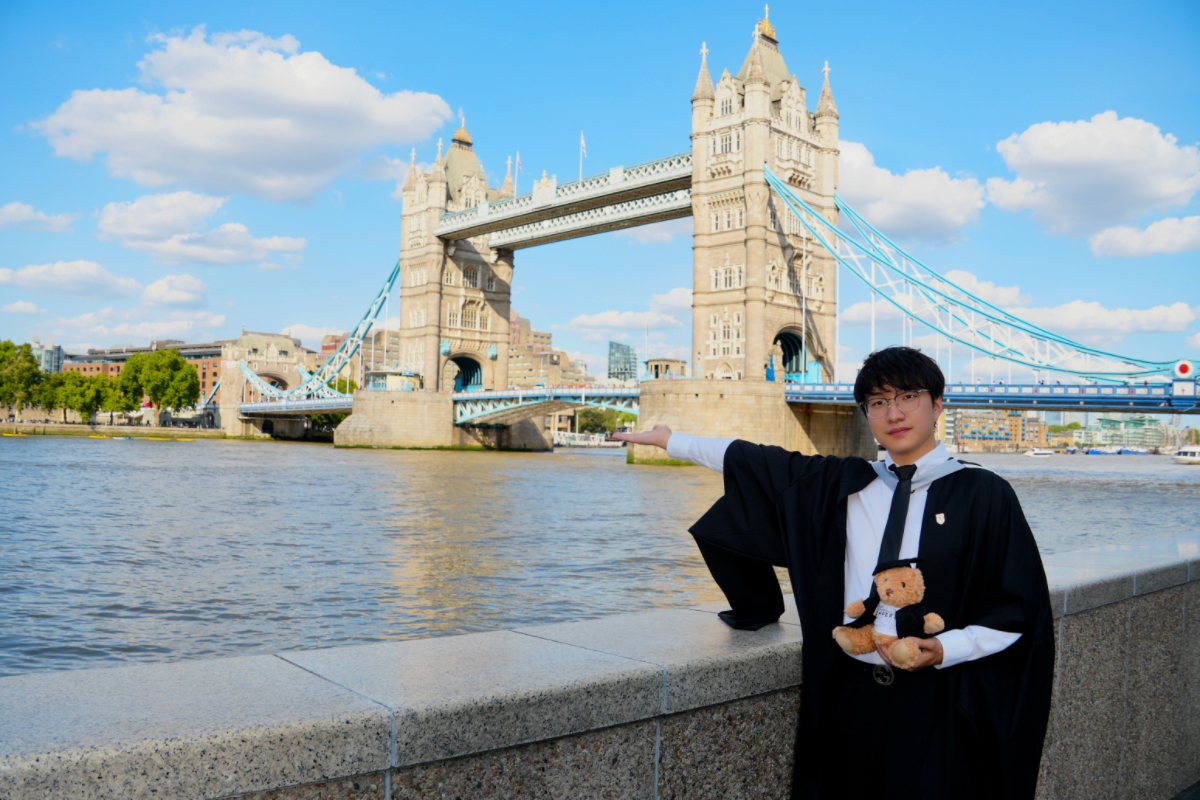
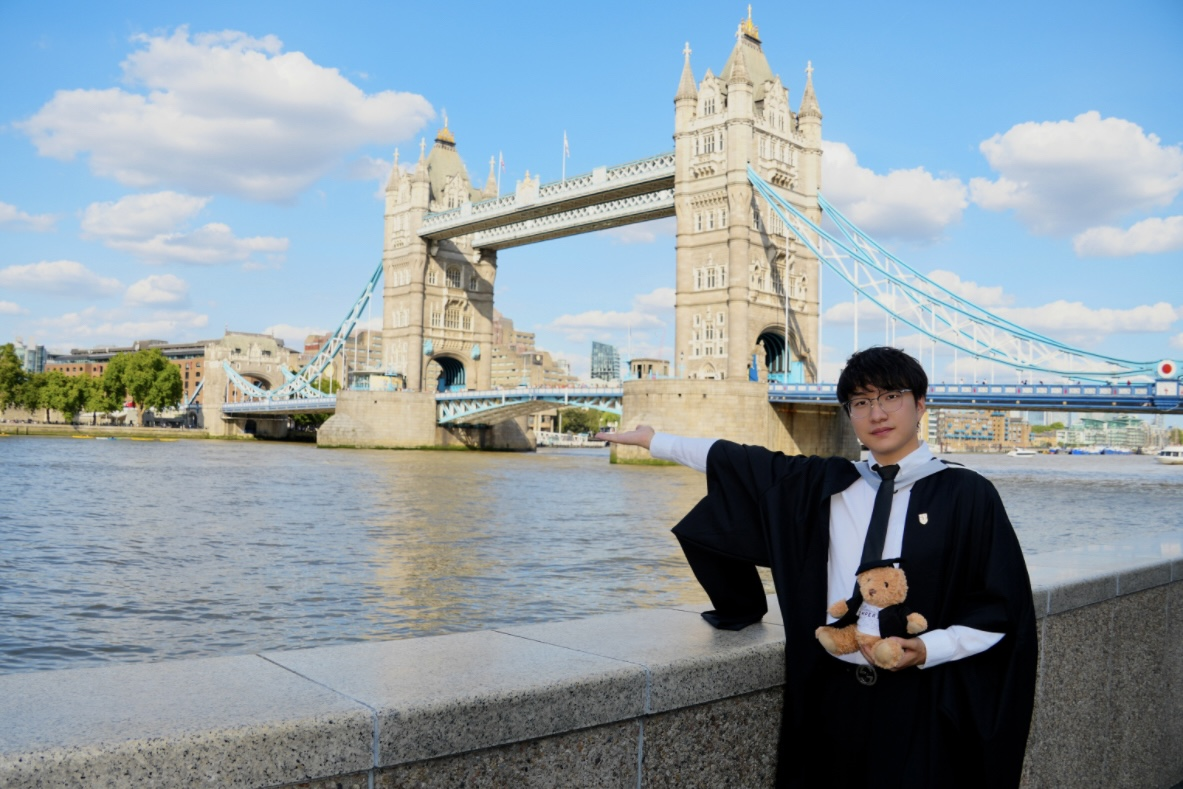
add teaching & add IR

diff --git a/_includes/widgets/teaching_item.html b/_includes/widgets/teaching_item.html
@@ -1,0 +1,94 @@
+{% assign item = include.item %}
+<div class="d-none d-md-block">
+    <div class="row no-gutters {% unless include.hide_bottom_border %}border-bottom{% endunless %} border-gray">
+        <div class="col p-3">
+            <h5 class="mt-0 mb-1 font-weight-normal">{{ item.title }}</h5>
+
+            {% if item.role %}
+            <p class="mt-0 mb-0 small">{{ item.role }}</p>
+            {% endif %}
+
+            {% if item.organization %}
+            <p class="mt-0 mb-0 small text-muted">{{ item.organization }}</p>
+            {% endif %}
+
+            {% if item.instructor %}
+            <p class="mt-0 mb-0 small text-muted">Instructor: {{ item.instructor }}</p>
+            {% endif %}
+
+            {% if item.note %}
+            <p class="mt-0 mb-0 small text-muted">{{ item.note }}</p>
+            {% endif %}
+
+            {% if item.description %}
+            <p class="mt-1 mb-0 small text-muted">{{ item.description }}</p>
+            {% endif %}
+
+            {% if item.links %}
+            <p class="small pb-0 mb-0 lh-125 text-muted abstract-links">
+                {% for link in item.links %}
+                {% if link[1].url %}
+                <a target="{{ link[1]['target'] }}" href="{{ link[1]['url'] }}">[{{ link[0] }}]</a>
+                {% else %}
+                <a target="_blank" href="{{ link[1] }}">[{{ link[0] }}]</a>
+                {% endif %}
+                {% endfor %}
+            </p>
+            {% endif %}
+        </div>
+
+        <div class="col-auto p-3 text-right">
+            {% if item.display_date %}
+            <p class="mt-0 mb-0 text-muted">{{ item.display_date }}</p>
+            {% elsif item.date %}
+            <p class="mt-0 mb-0 text-muted">{{ item.date | date: "%Y" }}</p>
+            {% endif %}
+        </div>
+    </div>
+</div>
+
+<div class="row no-gutters d-md-none {% unless include.hide_bottom_border %}border-bottom{% endunless %} border-gray {% if include.first %}rounded-xl-top{% endif %} {% if include.last %}rounded-xl-bottom{% endif %}">
+    <div class="w-100 {% if include.first %}rounded-xl-top{% endif %} {% if include.last %}rounded-xl-bottom{% endif %}" style="background-color: rgba(255,255,255,0.9);">
+        <div class="py-3 px-4">
+            <h5 class="mt-0 mb-1 font-weight-normal">{{ item.title }}</h5>
+
+            {% if item.role %}
+            <p class="mt-0 mb-0 small">{{ item.role }}</p>
+            {% endif %}
+
+            {% if item.organization %}
+            <p class="mt-0 mb-0 small text-muted">{{ item.organization }}</p>
+            {% endif %}
+
+            {% if item.instructor %}
+            <p class="mt-0 mb-0 small text-muted">Instructor: {{ item.instructor }}</p>
+            {% endif %}
+
+            {% if item.note %}
+            <p class="mt-0 mb-0 small text-muted">{{ item.note }}</p>
+            {% endif %}
+
+            {% if item.description %}
+            <p class="mt-1 mb-0 small text-muted">{{ item.description }}</p>
+            {% endif %}
+
+            {% if item.links %}
+            <p class="small pb-0 mb-0 lh-125 text-muted abstract-links">
+                {% for link in item.links %}
+                {% if link[1].url %}
+                <a target="{{ link[1]['target'] }}" href="{{ link[1]['url'] }}">[{{ link[0] }}]</a>
+                {% else %}
+                <a target="_blank" href="{{ link[1] }}">[{{ link[0] }}]</a>
+                {% endif %}
+                {% endfor %}
+            </p>
+            {% endif %}
+
+            {% if item.display_date %}
+            <p class="mt-1 mb-0 small text-muted">{{ item.display_date }}</p>
+            {% elsif item.date %}
+            <p class="mt-1 mb-0 small text-muted">{{ item.date | date: "%Y" }}</p>
+            {% endif %}
+        </div>
+    </div>
+</div>

diff --git a/teaching.html b/teaching.html
@@ -1,0 +1,55 @@
+---
+layout: default
+title : Teaching
+navbar_title: Teaching
+body_attr: >-
+  data-spy="scroll" data-target="#navbar-category" data-offset="100"
+---
+
+{% assign sorted_teaching = site.teaching | sort: "date" | reverse %}
+{% assign category_order = "Teaching Assistant|Course Instructor|Guest Lecturer|Mentoring" | split: "|" %}
+
+{% if sorted_teaching.size > 0 %}
+<div class="row">
+    <div class="col-12 col-lg-10">
+        {% for category_name in category_order %}
+        {% assign items_in_category = sorted_teaching | where: "category", category_name %}
+        {% assign section_id = category_name | slugify %}
+        {% if items_in_category.size > 0 %}
+        <h2 class="pt-4" id="{{ section_id }}">{{ category_name }}</h2>
+        <div class="my-0 p-0 bg-white shadow-sm rounded-xl">
+            {% for item in items_in_category %}
+                {% include widgets/teaching_item.html item=item hide_bottom_border=forloop.last first=forloop.first last=forloop.last %}
+            {% endfor %}
+        </div>
+        {% endif %}
+        {% endfor %}
+    </div>
+
+    <div class="col-2 d-none d-lg-block">
+        <div id="navbar-category" class="nav nav-pills flex-column sticky-top" style="top: 80px">
+            {% for category_name in category_order %}
+            {% assign items_in_category = sorted_teaching | where: "category", category_name %}
+            {% assign section_id = category_name | slugify %}
+            {% if items_in_category.size > 0 %}
+            <a class="nav-link d-block no-break" href="#{{ section_id }}">{{ category_name }}</a>
+            {% endif %}
+            {% endfor %}
+        </div>
+    </div>
+</div>
+{% else %}
+<div class="row">
+    <div class="col-12 col-lg-10">
+        <div class="my-4 p-4 bg-white shadow-sm rounded-xl">
+            <h4 class="mb-2">Teaching entries will appear here.</h4>
+            <p class="mb-2 text-muted">
+                Add Markdown files under <code>_teaching/</code> with fields such as <code>title</code>, <code>category</code>, <code>role</code>, <code>organization</code>, <code>instructor</code>, <code>display_date</code>, and <code>date</code>.
+            </p>
+            <p class="mb-0 text-muted">
+                Supported categories are <code>Teaching Assistant</code>, <code>Course Instructor</code>, <code>Guest Lecturer</code>, and <code>Mentoring</code>. Example date format for sorting: <code>date: 2026-09-01</code>.
+            </p>
+        </div>
+    </div>
+</div>
+{% endif %}

diff --git a/assets/maps/europe-map.html b/assets/maps/europe-map.html
@@ -45,7 +45,8 @@ sitemap: false
         "Iceland",
         "Norway",
         "Hungary",
-        "Austria"
+        "Austria",
+        "Ireland",
       ];
 
       const response = await fetch("/assets/maps/europe.json");

diff --git a/assets/maps/world-map.html b/assets/maps/world-map.html
@@ -56,6 +56,7 @@ sitemap: false
         "Turkmenistan",
         "South Korea",
         "Malaysia",
+        "Ireland",
       ];
 
       const data = visitedCountries.map(name => ({

diff --git a/_showcase/travel-Europe/2-Ir-dublin.md b/_showcase/travel-Europe/2-Ir-dublin.md
@@ -1,0 +1,14 @@
+---
+show: true
+width: 3
+date: 2025-09-10 00:01:00 +0800
+group: Travel - Europe
+---
+<div>
+  <img data-src="{{ '/assets/images/show/uk/dublin.jpg' | relative_url }}" class="lazy w-100 rounded-xl-top" src="{{ '/assets/images/empty_300x200.png' | relative_url }}">
+  <div class="card-body">
+    <p class="card-text">
+      🇮🇪 Ireland - Dublin
+    </p>
+  </div>
+</div>

diff --git a/_showcase/travel-Europe/2-uk-canterbury.md b/_showcase/travel-Europe/2-uk-canterbury.md
@@ -1,0 +1,14 @@
+---
+show: true
+width: 3
+date: 2025-09-25 00:01:00 +0800
+group: Travel - Europe
+---
+<div>
+  <img data-src="{{ '/assets/images/show/uk/canterbury.jpg' | relative_url }}" class="lazy w-100 rounded-xl-top" src="{{ '/assets/images/empty_300x200.png' | relative_url }}">
+  <div class="card-body">
+    <p class="card-text">
+      🇬🇧 UK - Canterbury
+    </p>
+  </div>
+</div>